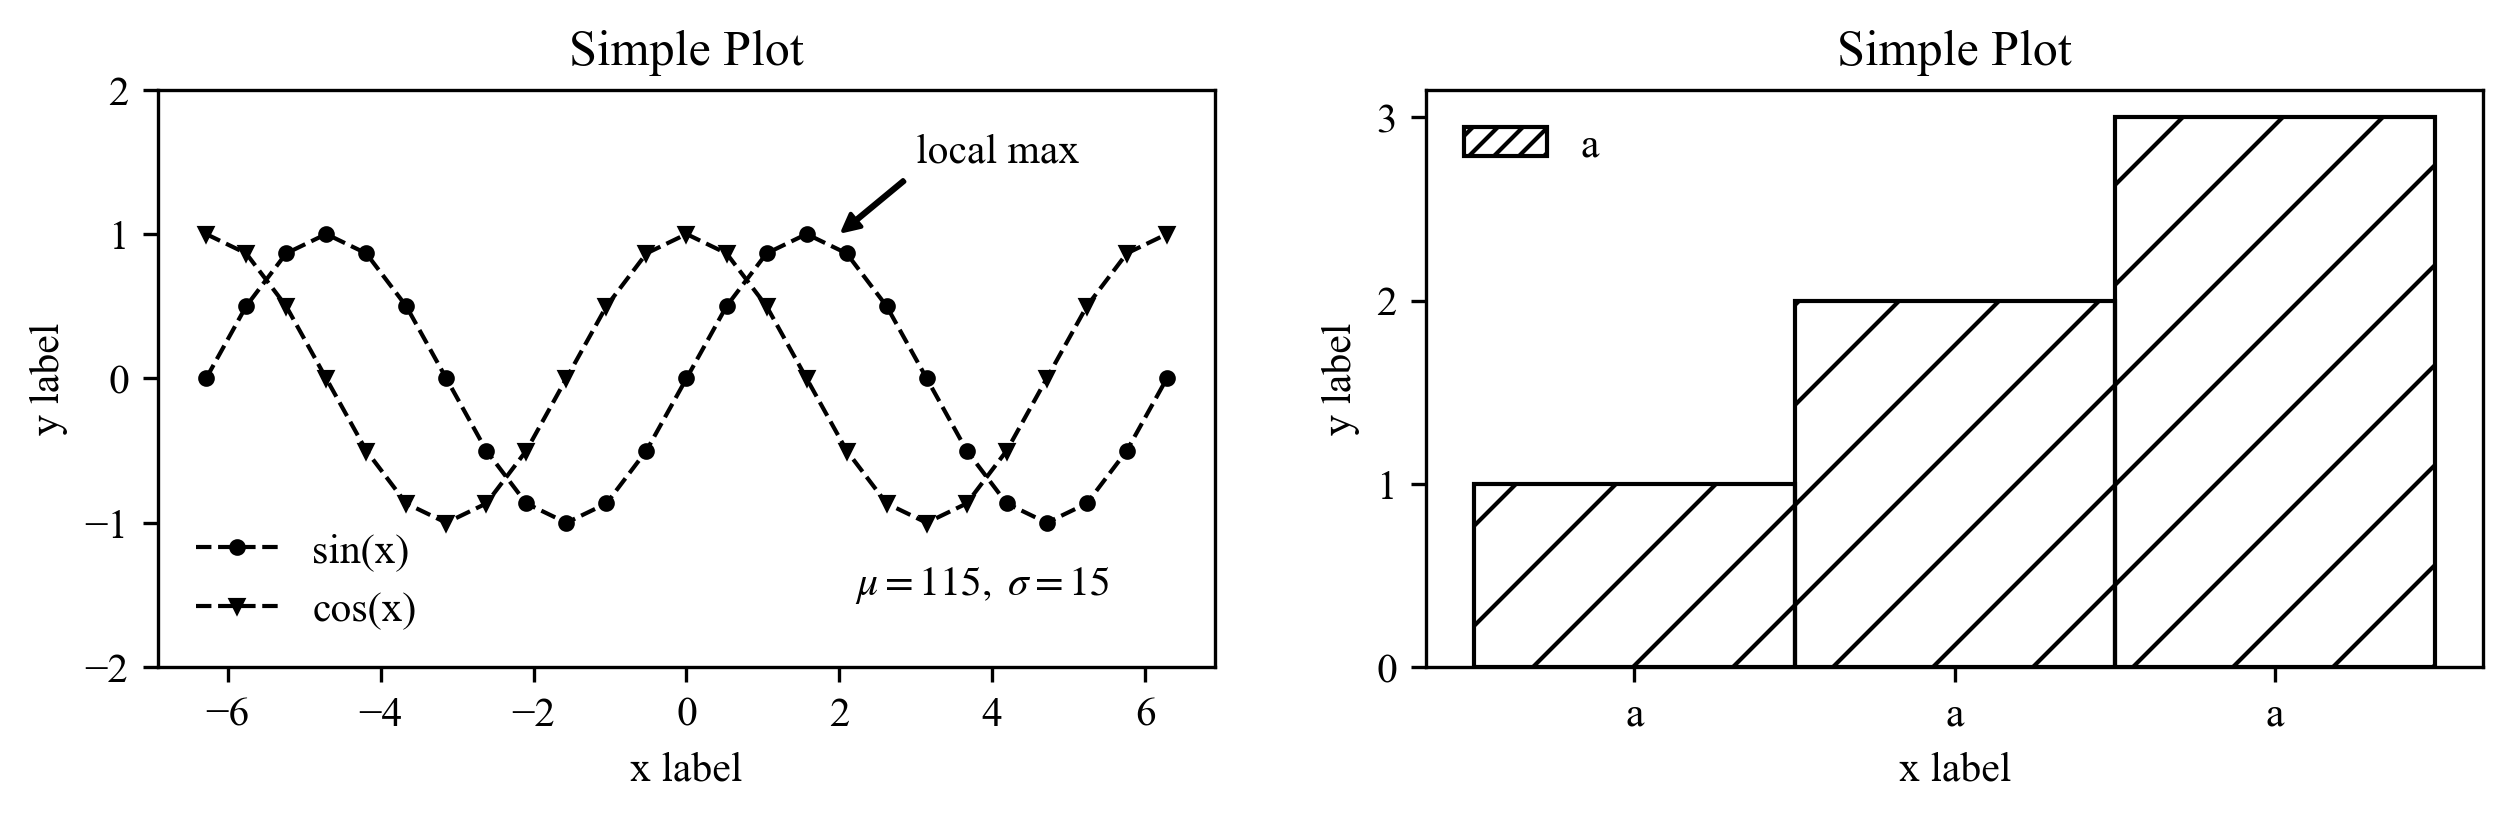
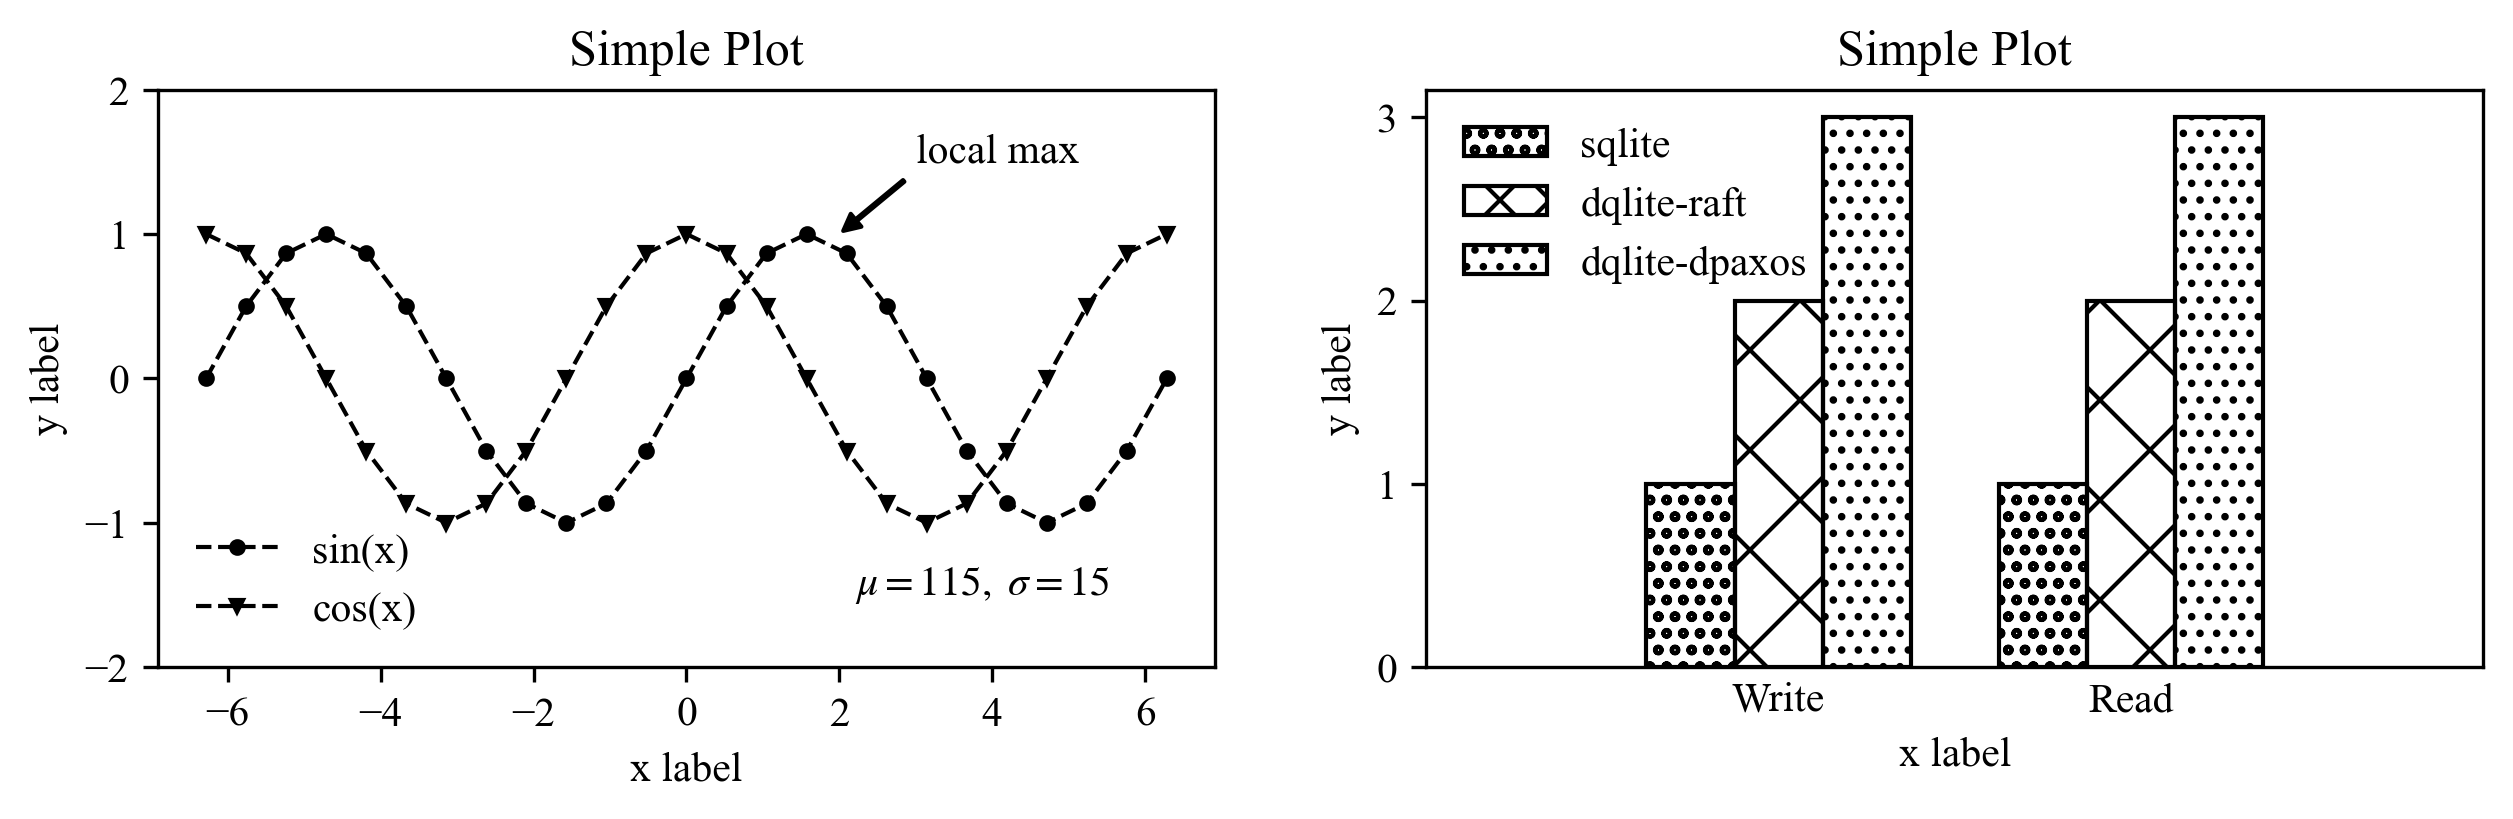
bar

diff --git a/tools/plot.py b/tools/plot.py
@@ -1,3 +1,4 @@
+import matplotlib.patches as mpatches
 import matplotlib.pyplot as plt
 import numpy as np
 
@@ -5,10 +6,12 @@ plt.rcParams['font.family'] = 'Times New Roman'
 plt.rcParams['mathtext.fontset'] = 'stix'
 plt.rcParams['savefig.dpi'] = 300
 
+
 def _clear_legend(leg):
   leg.get_frame().set_edgecolor('b')
   leg.get_frame().set_linewidth(0.0)
   leg.get_frame().set_facecolor('none')
+
 
 x = np.linspace(-2 * np.pi, 2 * np.pi, 25)
 y = np.sin(x)
@@ -19,8 +22,9 @@ ax = axd["A"]
 ax.set_xlabel('x label')
 ax.set_ylabel('y label')
 ax.set_title("Simple Plot")
-ax.plot(x, y, 'o', markersize=3, label="sin(x)", color='black', linewidth=1, linestyle='--')
-ax.plot(x, cosy, 'v', markersize=3, label="cos(x)", 
+ax.plot(x, y, 'o', markersize=3, label="sin(x)",
+        color='black', linewidth=1, linestyle='--')
+ax.plot(x, cosy, 'v', markersize=3, label="cos(x)",
         color='black', linewidth=1, linestyle='--')
 ax.text(2.2, -1.5, r'$\mu=115,\ \sigma=15$')
 ax.annotate('local max', xy=(2, 1), xytext=(3, 1.5),
@@ -35,9 +39,19 @@ ax.set_ylabel('y label')
 ax.set_title("Simple Plot")
 
 # / , \\ , | , - , + , x, o, O, ., *
-import matplotlib.patches as mpatches
-ax.bar([1, 2, 3], [1, 2, 3], width=1, fill=False, hatch='/', tick_label="a")
-leg = ax.legend(handles=[mpatches.Patch(label='a', hatch='////', fill=False)])
+ax.xaxis.set_tick_params(length=0)
+ax.set_xlim(-2, 10)
+ax.bar([1, 2, 3], [1, 2, 3], width=1, fill=False,
+       hatch=['ooo', 'x', '...'])
+ax.bar([5, 6, 7], [1, 2, 3], width=1, fill=False,
+       hatch=['ooo', 'x', '...'])
+ax.set_xticks([2, 6])
+ax.set_xticklabels(['Write', 'Read'])
+leg = ax.legend(handles=[
+        mpatches.Patch(label='sqlite', hatch='ooo', fill=False), 
+        mpatches.Patch(label='dqlite-raft', hatch='xx', fill=False),
+        mpatches.Patch(label='dqlite-dpaxos', hatch='...', fill=False),
+], loc=2)
 _clear_legend(leg)
 
 plt.savefig("plot.png", bbox_inches='tight')
